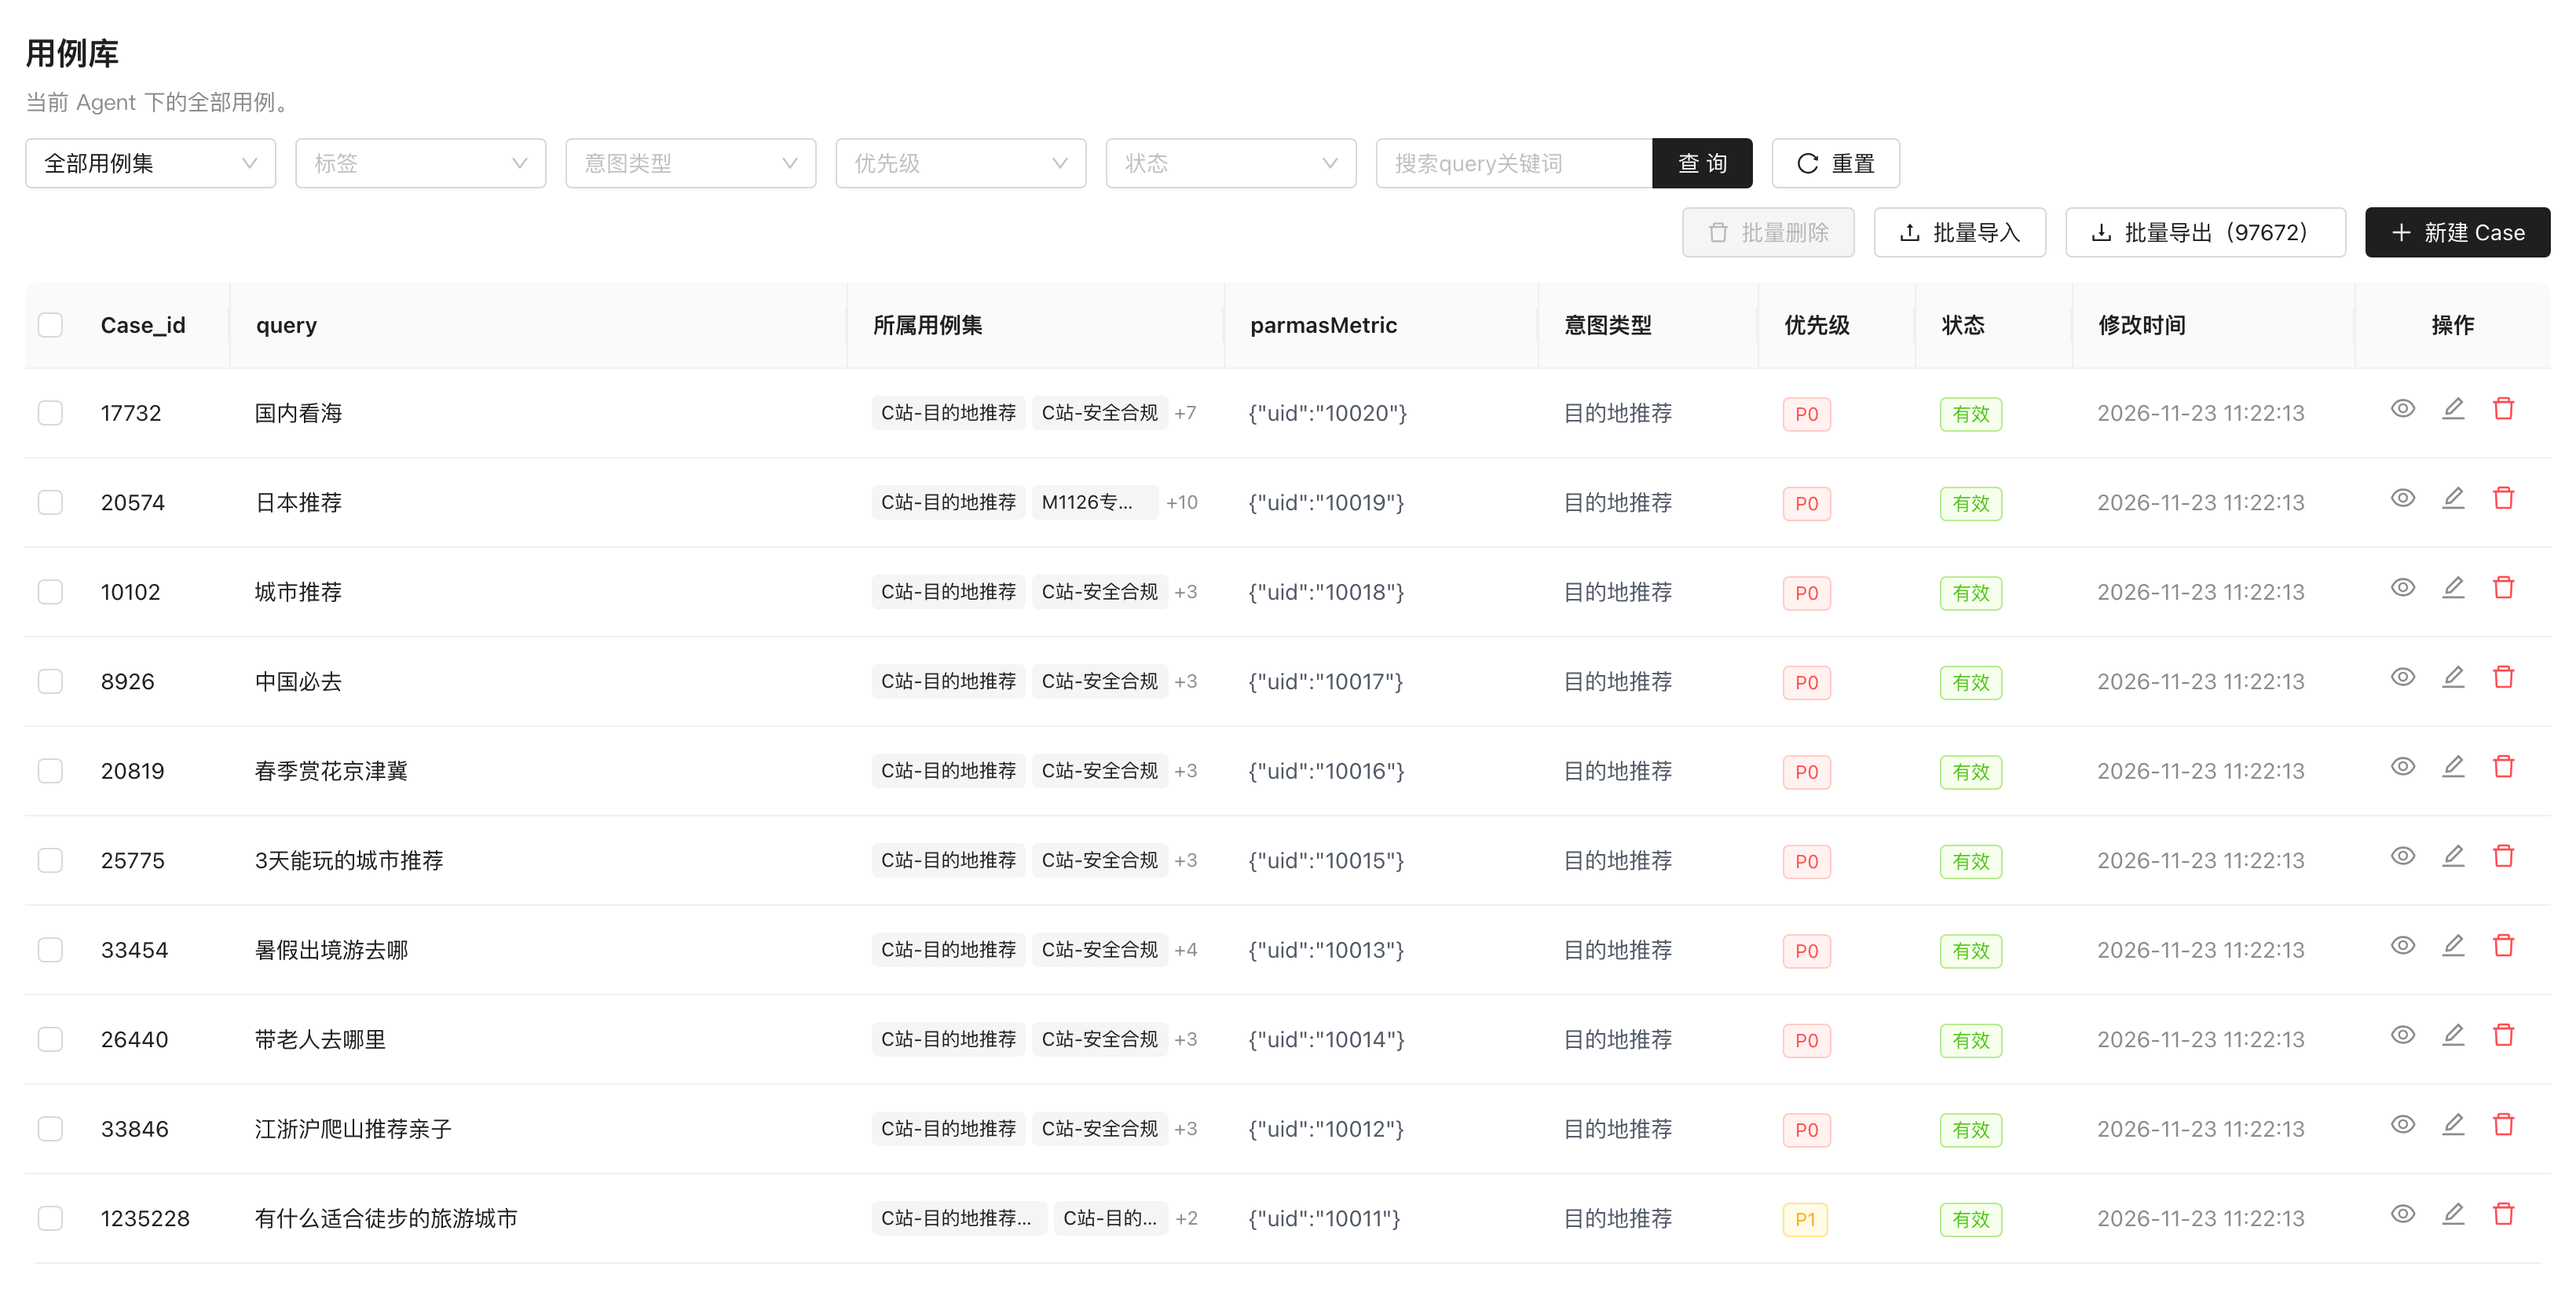
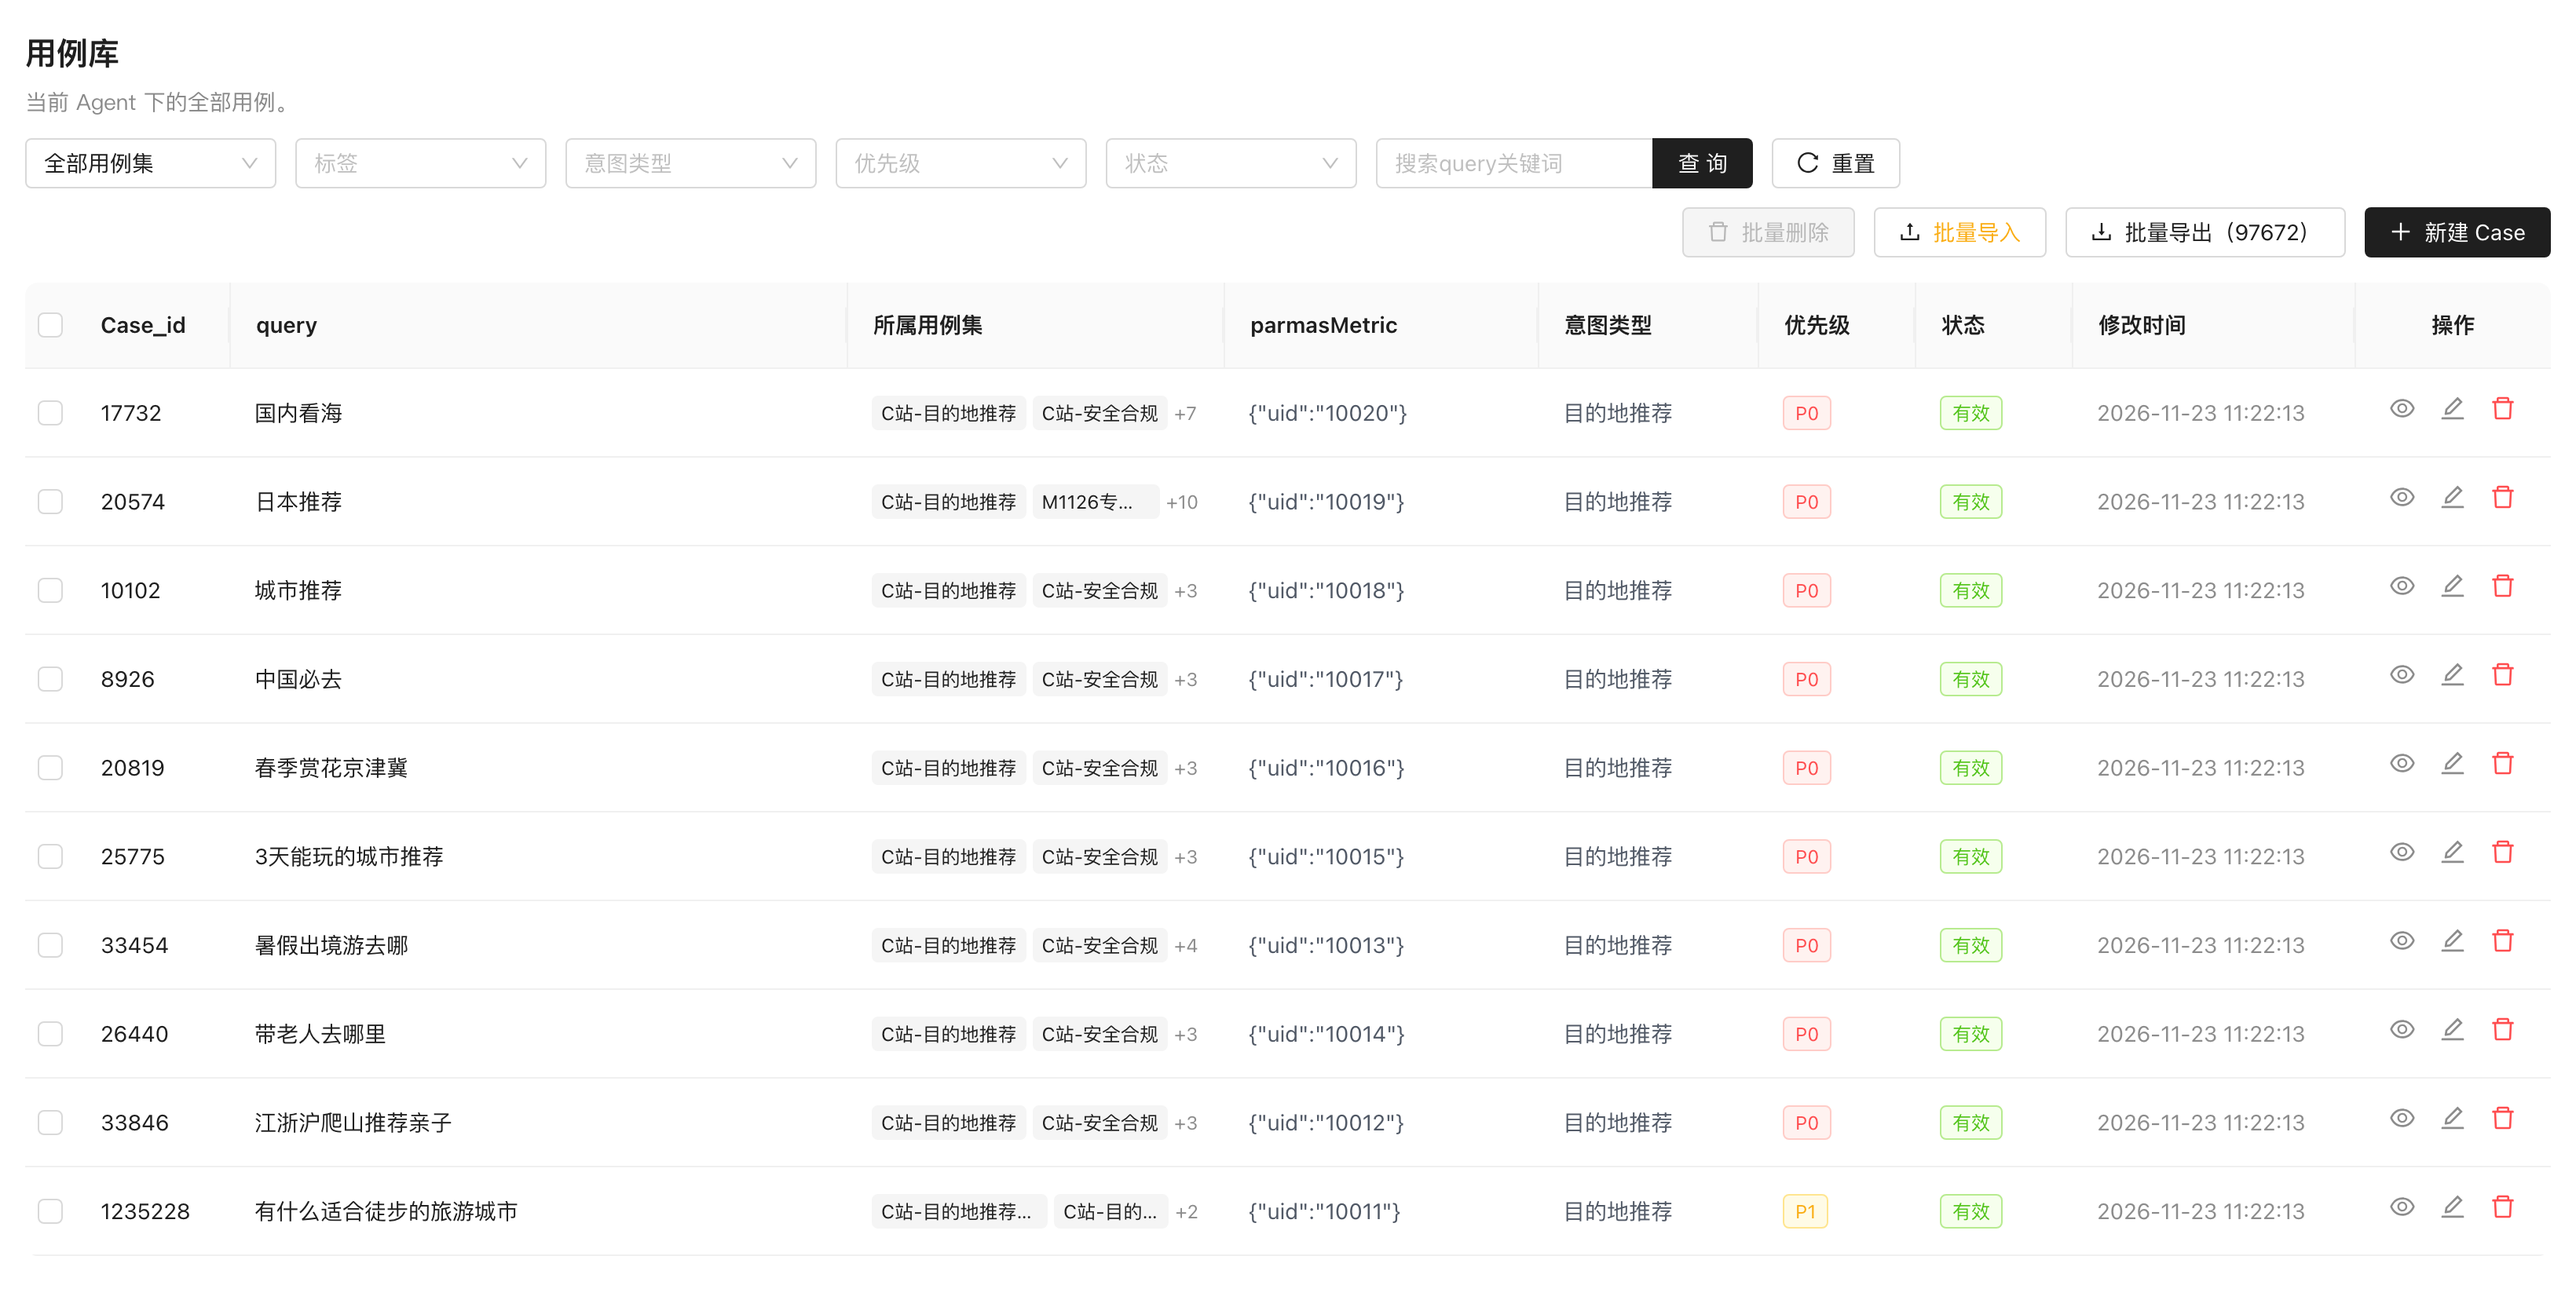
Set 批量导入 label color to yellow

diff --git a/case-library/src/App.jsx b/case-library/src/App.jsx
@@ -178,7 +178,9 @@ export default function App() {
         <Button icon={<DeleteOutlined />} disabled={selectedRowKeys.length === 0}>
           批量删除
         </Button>
-        <Button icon={<UploadOutlined />}>批量导入</Button>
+        <Button icon={<UploadOutlined />}>
+          <span className="import-button-label">批量导入</span>
+        </Button>
         <Button icon={<DownloadOutlined />}>批量导出（{totalCaseCount}）</Button>
         <Button type="primary" icon={<PlusOutlined />}>
           新建 Case

diff --git a/case-library/src/styles.css b/case-library/src/styles.css
@@ -58,6 +58,10 @@ body {
   margin-top: 12px;
 }
 
+.import-button-label {
+  color: #faad14;
+}
+
 .table-card {
   margin-top: 16px;
   overflow: hidden;
